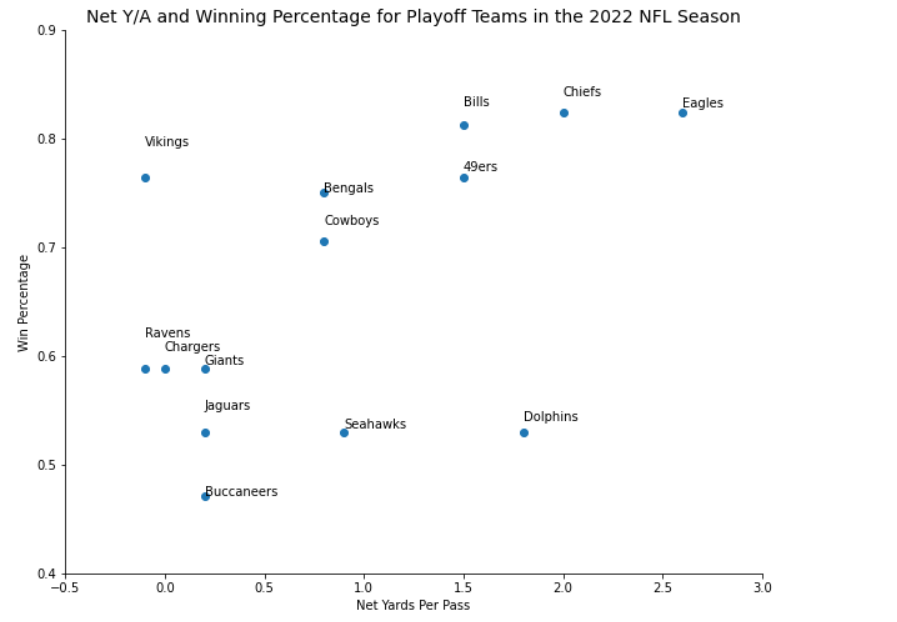
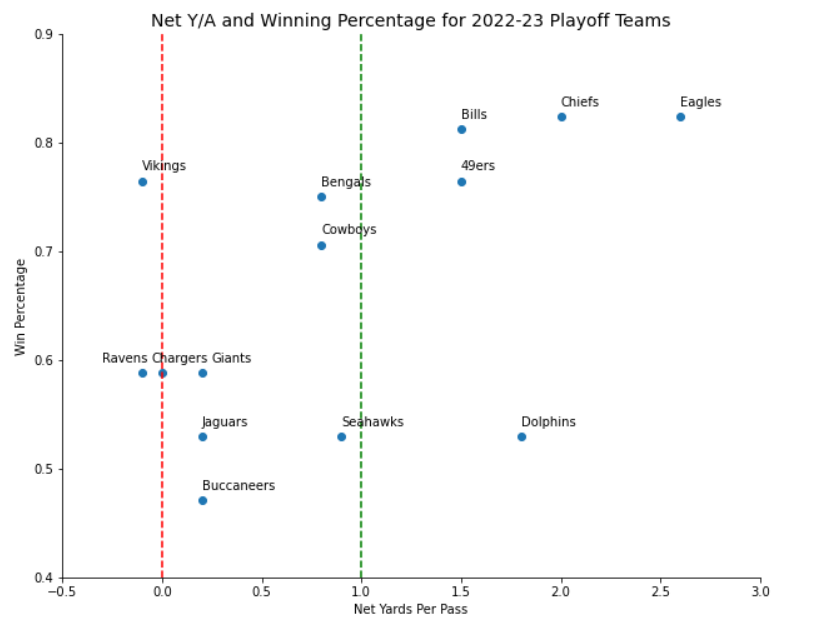
Finished NFL Playoff Preview

diff --git a/2022_NFL_Playoff_Preview.html b/2022_NFL_Playoff_Preview.html
@@ -42,7 +42,7 @@
             <!-- Left column -->
             <div class="col-6 col-lg-6 col-xl-6">
                 <h6 class="display-6 text-center">What is Net Yards Per Pass Attempt?</h6>
-                <p class="text-lead">One of the most predictive metrics for NFL team success is one that may not appear on many broadcasts or come up in 
+                <p class="text-lead mt-3">One of the most predictive metrics for NFL team success is one that may not appear on many broadcasts or come up in 
                     casual conversations. It may not be as obvious as turnovers or as flashy as a great pass rush, but it can be quite powerful in separating a 
                     good team from a bad one. Net yards per pass attempt is simply found by taking a team's offensive yards per pass attempt and 
                     subtracting the defenses's yards per pass attempt allowed. For example, we can see from the table on the right that for the season, Tom Brady's 
@@ -53,11 +53,12 @@
                 <p class="text-article">The beautiful thing about using net yards per pass as a metric is that it gives a numerical value to the 
                     intuitive concepts that any football fan can see impact success. More specifically, it captures how much more effectively a team's 
                     offense is throwing the ball compared to their opponents. You may not think of it like that while watching the game on Sundays, but every
-                    fan knows they're in a good spot if they can pass the ball more efficiently than their opponent.</p>
+                    fan knows their team in a good spot if they can pass the ball more efficiently than their opponent.</p>
             </div>
             <!-- Right column -->
             <div class="col-6 col-lg-6 col-xl-6">
                 <figure>
+                    <figcaption class="mb-2 text-center fig-title-right">Figure 1</figcaption>
                     <img src="images/table_2022.png" alt="2022 table">
                     <figcaption class="mt-2">Net Yards per Pass Attempt and Winning Percentage for 2022-23 Playoff Teams</figcaption>
                 </figure>
@@ -69,6 +70,7 @@
             <!-- Left column -->
             <div class="col-6 col-lg-6 col-xl-6">
                 <figure>
+                    <figcaption class="mb-2 text-center fig-title-left">Figure 2</figcaption>
                     <img src="images/netya_historical_v2.png" alt="Historical Plot" class="left-image">
                     <figcaption class="mt-2"></figcaption>
                 </figure>
@@ -76,7 +78,18 @@
             <!-- Right column -->
             <div class="col-6 col-lg-6 col-xl-6">
                 <h6 class="display-6 text-center">Historical Analysis of Net Yards per Pass</h6>
-                <p class="text-article">Some more text here. </p>
+                <p class="text-right mt-3">As previously stated, net yards per pass attempt is one of the best predictors of winning percentage
+                     historically. I gathered offensive and defensive passing statistics for every NFL team from 1971 to 2019 as well as collected 
+                     the team's record for that respective season. As a result I was able to perform a Linear Regression using net yards per pass 
+                     as the explanatory variable and win percentage as the response variable. The results are shown by the red line on the plot to 
+                     the left. As you can see, the trend line fits the data well. </p> 
+                <p class="text-right">Now for some statistical jargon: the correlation coefficient (R) 
+                     of this regression was .718, while the coefficient of determination (R-squared) was .516. What this value of R means in simpler 
+                     terms is that there is a strong, positive, linear relationship between net yards per pass and winning percentage. The data 
+                     exhibits a linear upward trend meaning the better the team's net yards per pass, the better their win percentage is expected to 
+                     be. Once again, the plot on the right offers clear evidence of this being the case. An R-squared value of .516 tells us that 51.6% of the variation in winning percentage can be explained by a team's net 
+                     yards per pass. There are certainly models that can explain more than 51.6% of the variation, but for one simple metric, this 
+                     is quite good.</p>
             </div>
         </div>
         <!-- Third  row -->
@@ -84,13 +97,29 @@
             <!-- Left column -->
             <div class="col-6 col-lg-6 col-xl-6">
                 <h6 class="display-6 text-center">What it Means for the 2022-23 Playoffs</h6>
-                <p class="text-article">Some text here</p>
+                <p class="text-article mt-3">Unfortunately for those that are looking for a flashy prediction, you won't find one here. Of the 
+                    51 Super Bowl champions from 1971-2021, 35 of them had a net yards per pass attempt of 1.0 or over. So slightly over 2/3 of 
+                    all super bowl champions since nfl.com began tracking stats have hit that benchmark. Additionally, the last 3 Super Bowl champions 
+                    (Chiefs, Bucs, and Rams) have all exceeded 1.0 net yards per pass atempt. By looking at Figure 3 on the right, we can see that there are 
+                    5 teams that have reached or exceeded 1.0 net yards per pass this year. The 4 Super Bowl favorites, Chiefs, Bills, Eagles, and 49ers, 
+                    and then the Dolphins would seem to be the prime candidates to win the Super Bowl this year. With Miami being forced to play 3rd 
+                    string QB, Skylar Thompson, I think it's fair to cross the Dolphins off from this group as their passing attack is a shell of itself 
+                    at the moment. Once again, I'm not going out on a limb here by predicting one of the top 2 seeds from either conference will win the 
+                    Super Bowl this year, but based on historical trends that is likely to be the case.</p>
+                <p class="text-article mt-3">Perhaps more interesting are the pair of first round underdogs that would seem to have the advantage by net 
+                    yards per pass. Both the Jaguars and Giants are underdogs against the Chargers and Vikings respectively, despite having the advantage 
+                    in net yards per pass. In fact, the Vikings even have a negative net yards per pass, joining the Ravens as the only teams with a 
+                    negative margin to make the playoffs this year. Both those teams are looking to be just the 3rd team in over 50 years to win the Super 
+                    Bowl with a negative net yards per pass, joining the 2007 Giants and 2014 Patriots. Much has been made of the Vikings fluky record 
+                    considering their point differential, and that is given further credence by Figure 3. I'd look for the Giants to pull off one of the 
+                    few "upsets" of this years playoffs against the Vikings. It may not be a playoffs full of surprises, but it's sure to be entertaining 
+                    as usual.</p>
             </div>
             <!-- Right column -->
             <div class="col-6 col-lg-6 col-xl-6">
                 <figure>
+                    <figcaption class="mb-2 text-center fig-title-right">Figure 3</figcaption>
                     <img src="images/netya_2022.png" alt="2022 table">
-                    <figcaption class="mt-2"></figcaption>
                 </figure>
             </div>
         </div>

diff --git a/index.html b/index.html
@@ -87,7 +87,7 @@
                   <button type="button" data-bs-target="#carouselExampleCaptions" data-bs-slide-to="2" aria-label="Slide 3"></button>
                 </div>
                 <div class="carousel-inner">
-                  <div class="carousel-item active">
+                  <!-- <div class="carousel-item active">
                     <img src="images/random1.jpg" class="d-block w-100 h-75" alt="random1">
                     <div class="carousel-caption d-none d-md-block">
                       <h5>First slide label</h5>
@@ -100,8 +100,8 @@
                       <h5>Second slide label</h5>
                       <p>Some representative placeholder content for the second slide.</p>
                     </div>
-                  </div>
-                  <div class="carousel-item">
+                  </div> -->
+                  <div class="carousel-item active"> <!-- WHEN YOU UNCOMMENT ABOVE SLIDES DELETE ACTIVE CLASS -->
                     <img src="images/NFL_bracket.png" class="d-block w-100 h-75" alt="random4">
                     <div class="carousel-caption d-none d-md-block">
                       <h6 class="display-6 carousel-title">2022-2023 NFL Playoff Preview</h6>

diff --git a/nflstyles.css b/nflstyles.css
@@ -31,10 +31,9 @@ img {
 }
 
 .left-image {
-    width: 100%;
+    width: 90%;
     padding-left: 10%;
     padding-right: 5%;
-    ;
 }
 
 .text-lead {
@@ -43,6 +42,22 @@ img {
 
 .text-article {
     padding-left: 5%;
+}
+
+.text-right {
+    padding-right: 4%;
+}
+
+.fig-title-right {
+    padding-right: 25%;
+    font-size: 1.5em;
+    color:#BFA181;
+}
+
+.fig-title-left {
+    padding-right: 20%;
+    font-size: 1.5em;
+    color:#BFA181;
 }
 
 .text-lead:first-letter {
